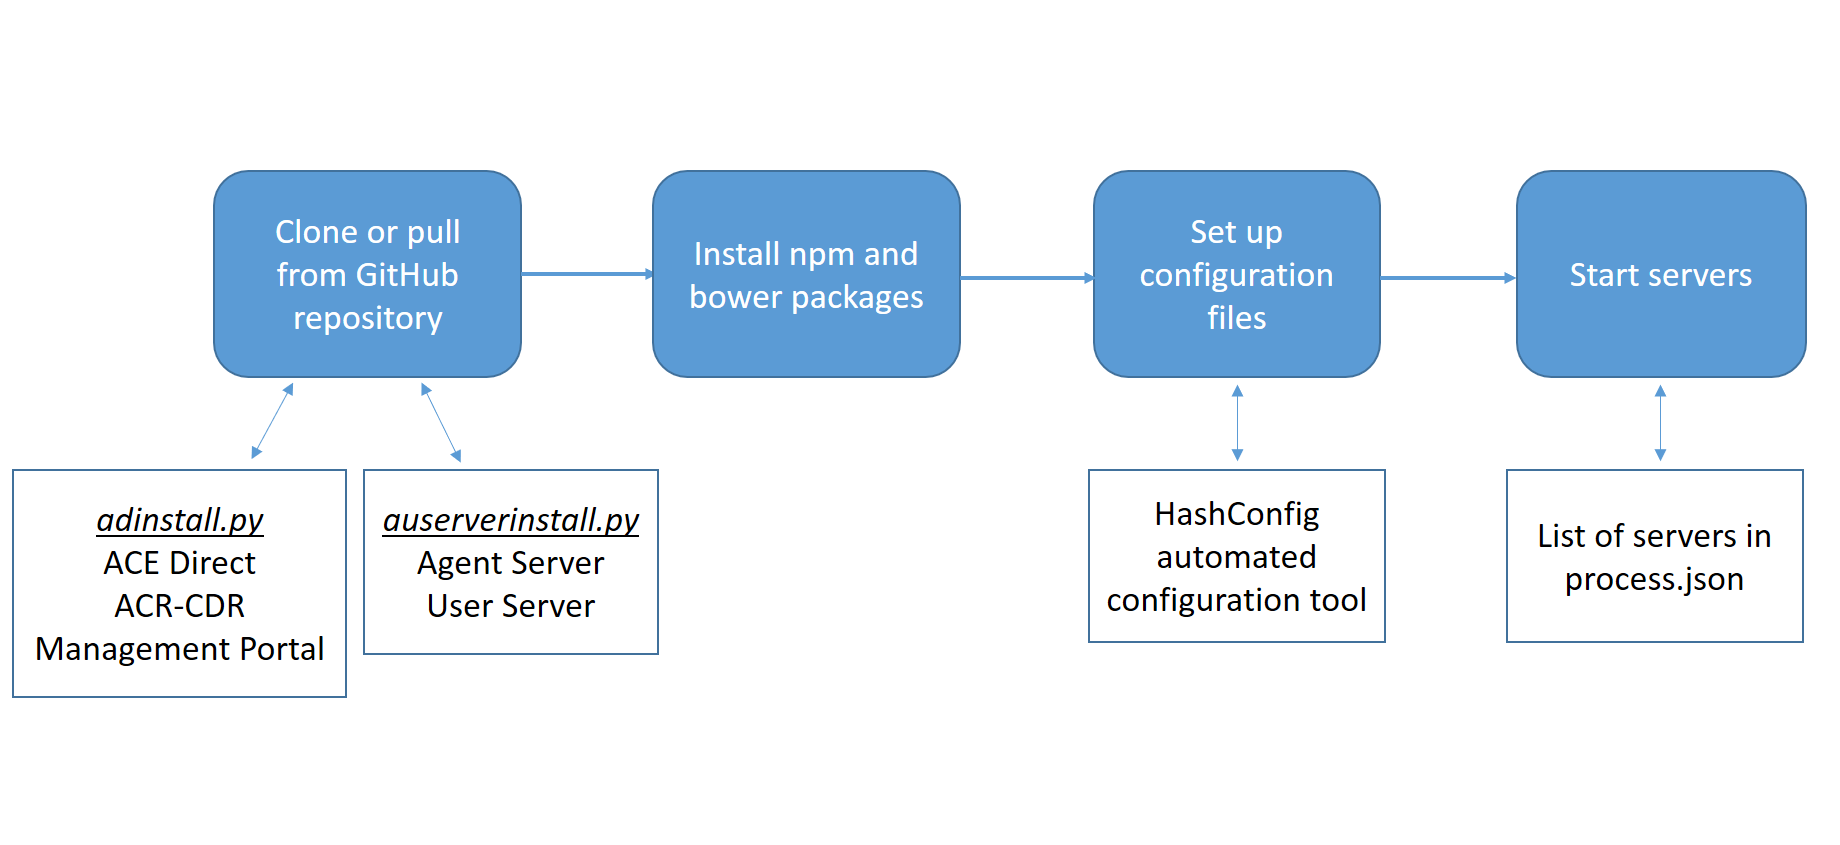
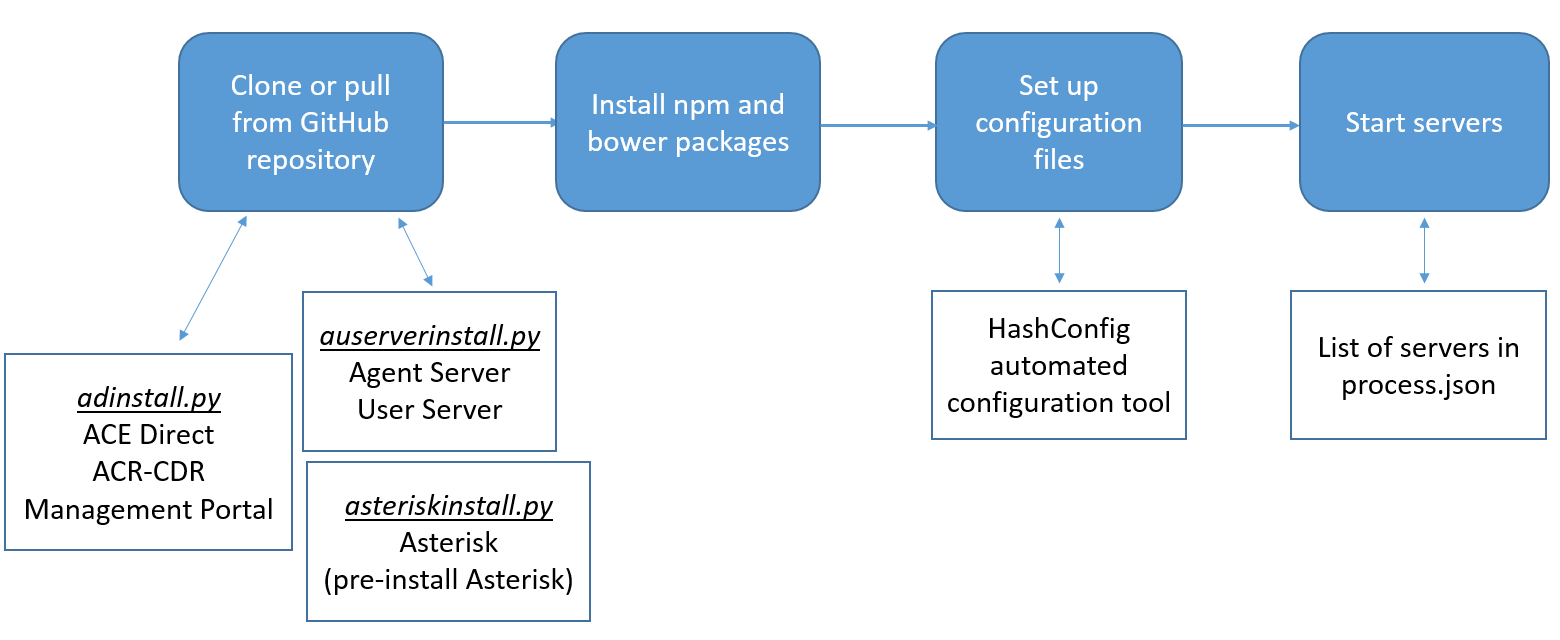
Added back make commands; updated documentation

diff --git a/asteriskinstall.py b/asteriskinstall.py
@@ -28,6 +28,8 @@ subprocess.call(['./contrib/scripts/install_prereq', 'install'], cwd = '/usr/src
 subprocess.call(['./configure', '--with-pjproject-bundled'], cwd = '/usr/src/asterisk-14.2.1')
 subprocess.call(['make'], cwd= '/usr/src/asterisk-14.2.1')
 subprocess.call(['make', 'install'], cwd = '/usr/src/asterisk-14.2.1')
+subprocess.call(['make', 'samples'], cwd = '/usr/src/asterisk-14.2.1')
+subprocess.call(['make', 'config'], cwd = '/usr/src/asterisk-14.2.1')
 
 subprocess.call('echo "/usr/local/lib? > /etc/ld.so.conf.d/usr_local.conf', shell=True)
 subprocess.call(['/sbin/ldconfig'])
@@ -38,8 +40,8 @@ subprocess.call(['ssh-keyscan', 'github.com', '>>', '/root/.ssh/known_hosts'], c
 # pull down confi/media files and add to /etc/asterisk and /var/lib/asterisk/sounds, respectively
 subprocess.call(['git', 'clone', 'https://github.com/mitrefccace/asterisk.git'], cwd = '/root')
 subprocess.call(['git', 'checkout', 'AD'], cwd = '/root/asterisk')
-subprocess.call(' yes | cp -rf asterisk-configs/* /etc/asterisk', shell=True, cwd = '/root/asterisk')
-subprocess.call('yes | cp -rf asterisk-videos-audios/sounds/* /var/lib/asterisk/sounds/', shell=True, cwd = '/root/asterisk')
+subprocess.call('cp -rf asterisk-configs/* /etc/asterisk', shell=True, cwd = '/root/asterisk')
+subprocess.call('cp -rf asterisk-videos-audios/sounds/* /var/lib/asterisk/sounds/', shell=True, cwd = '/root/asterisk')
 
 subprocess.call('sed -i -e "s/<public_ip>/' + sys.argv[1] + '/g" pjsip.conf', shell=True, cwd = '/etc/asterisk')
 subprocess.call('sed -i -e "s/<local_ip>/' + sys.argv[2] + '/g" pjsip.conf', shell=True, cwd = '/etc/asterisk')

diff --git a/README.md b/README.md
@@ -74,7 +74,7 @@ where the options are as follows:
 
 * \<stun_server>: STUN/TURN server address:port (we recommend building a dedicated STUN server, but a public STUN server can be used if desired)
 
-* \<crt_file>: SSL certificate for Asterisk server
+* \<crt_file>: SSL certificate for Asterisk server (generating using a Certificate Authority such as GoDaddy)
 
 * \<crt_key>: Private key for Asterisk server 
 
